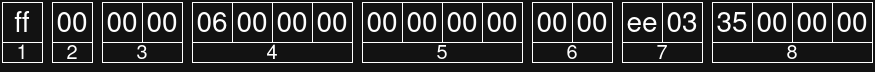
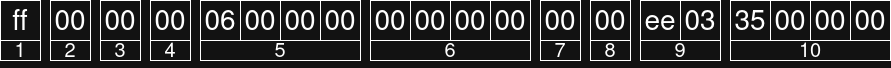
Updated description of DVRIP/Sofia header; Save audio frames to a single stream; Moved some code to separate functions

diff --git a/README.md b/README.md
@@ -30,9 +30,22 @@ Media payload headers were reconstructed based on [Xiongmai bitstream frame form
 
 # DVRIP/Sofia Command Message
 
+Header description of a single DVRIP/Sofia message is based on [Digital Video Recorder Interface Protocol document](https://github.com/OpenIPC/python-dvr/blob/master/doc/%E9%9B%84%E8%BF%88%E6%95%B0%E5%AD%97%E8%A7%86%E9%A2%91%E5%BD%95%E5%83%8F%E6%9C%BA%E6%8E%A5%E5%8F%A3%E5%8D%8F%E8%AE%AE_V1.0.0.pdf), the actual diagram being on page 7.
+
 ![DVRIP header](images/DVRIP_header.png)
 
 ![DVRIP header in Wireshark](images/DVRIP_header_wireshark.png)
+
+1. BIT 0 - message header byte, fixed as 0xFF.
+2. BIT 1 - observed to equalt 0 for requests and equal to 1 for responses from the IP camera.
+3. BIT 2 - reserved byte 1. Observed to be either 0 or 1.
+4. BIT 3 - reserved byte 2. Observed to be either 0 or 128.
+5. BIT 4-7 - session ID. Assigned by the camera after successful login. Needs to be present in every subsequent message.
+6. BIT 8-11 - sequence number. Increments from 0 after startup, and after reaching the (unknown) maximum, starts from 0 again.
+7. BIT 12 - total number of packets in a single message. Value of 0 or 1 indicate a single message per packet. 
+8. BIT 13 - number of a current packet in message. Meaningful only when the value of total packets (bit 12) is greater than 1.
+9. BIT 14-15 - command code (also called message id). The code defines what action to perform.
+10. BIT 16-19 - data (payload) length. Length of a JSON payload, which starts immediately after DVRIP/Sofia header.
 
 # Audio Header
 
